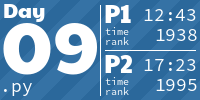
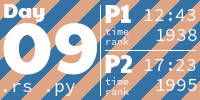
Add day 9

diff --git a/2023/09/09.rs b/2023/09/09.rs
@@ -1,0 +1,21 @@
+use std::io::{stdin, Read};
+use itertools::Itertools;
+
+fn main() {
+    let mut input = String::new();
+    stdin().read_to_string(&mut input).unwrap();
+
+    let mut first = 0;
+    let mut last = 0;
+    for line in input.lines() {
+        let mut diff = line.split(' ').map(|n| n.parse().unwrap()).collect::<Vec<i32>>();
+        let mut sign = 1;
+        while let [a, .., z] = *diff {
+            first += a * sign;
+            last += z;
+            sign *= -1;
+            diff = diff.iter().tuple_windows().map(|(a, b)| b - a).collect();
+        }
+    }
+    println!("{}\n{}", last, first);
+}

diff --git a/README.md b/README.md
@@ -30,7 +30,7 @@
 <a href="2023/08/08.py">
   <img src=".aoc_tiles/tiles/2023/08.png" width="161px">
 </a>
-<a href="2023/09/09.py">
+<a href="2023/09/09.rs">
   <img src=".aoc_tiles/tiles/2023/09.png" width="161px">
 </a>
 <h1 align="center">
